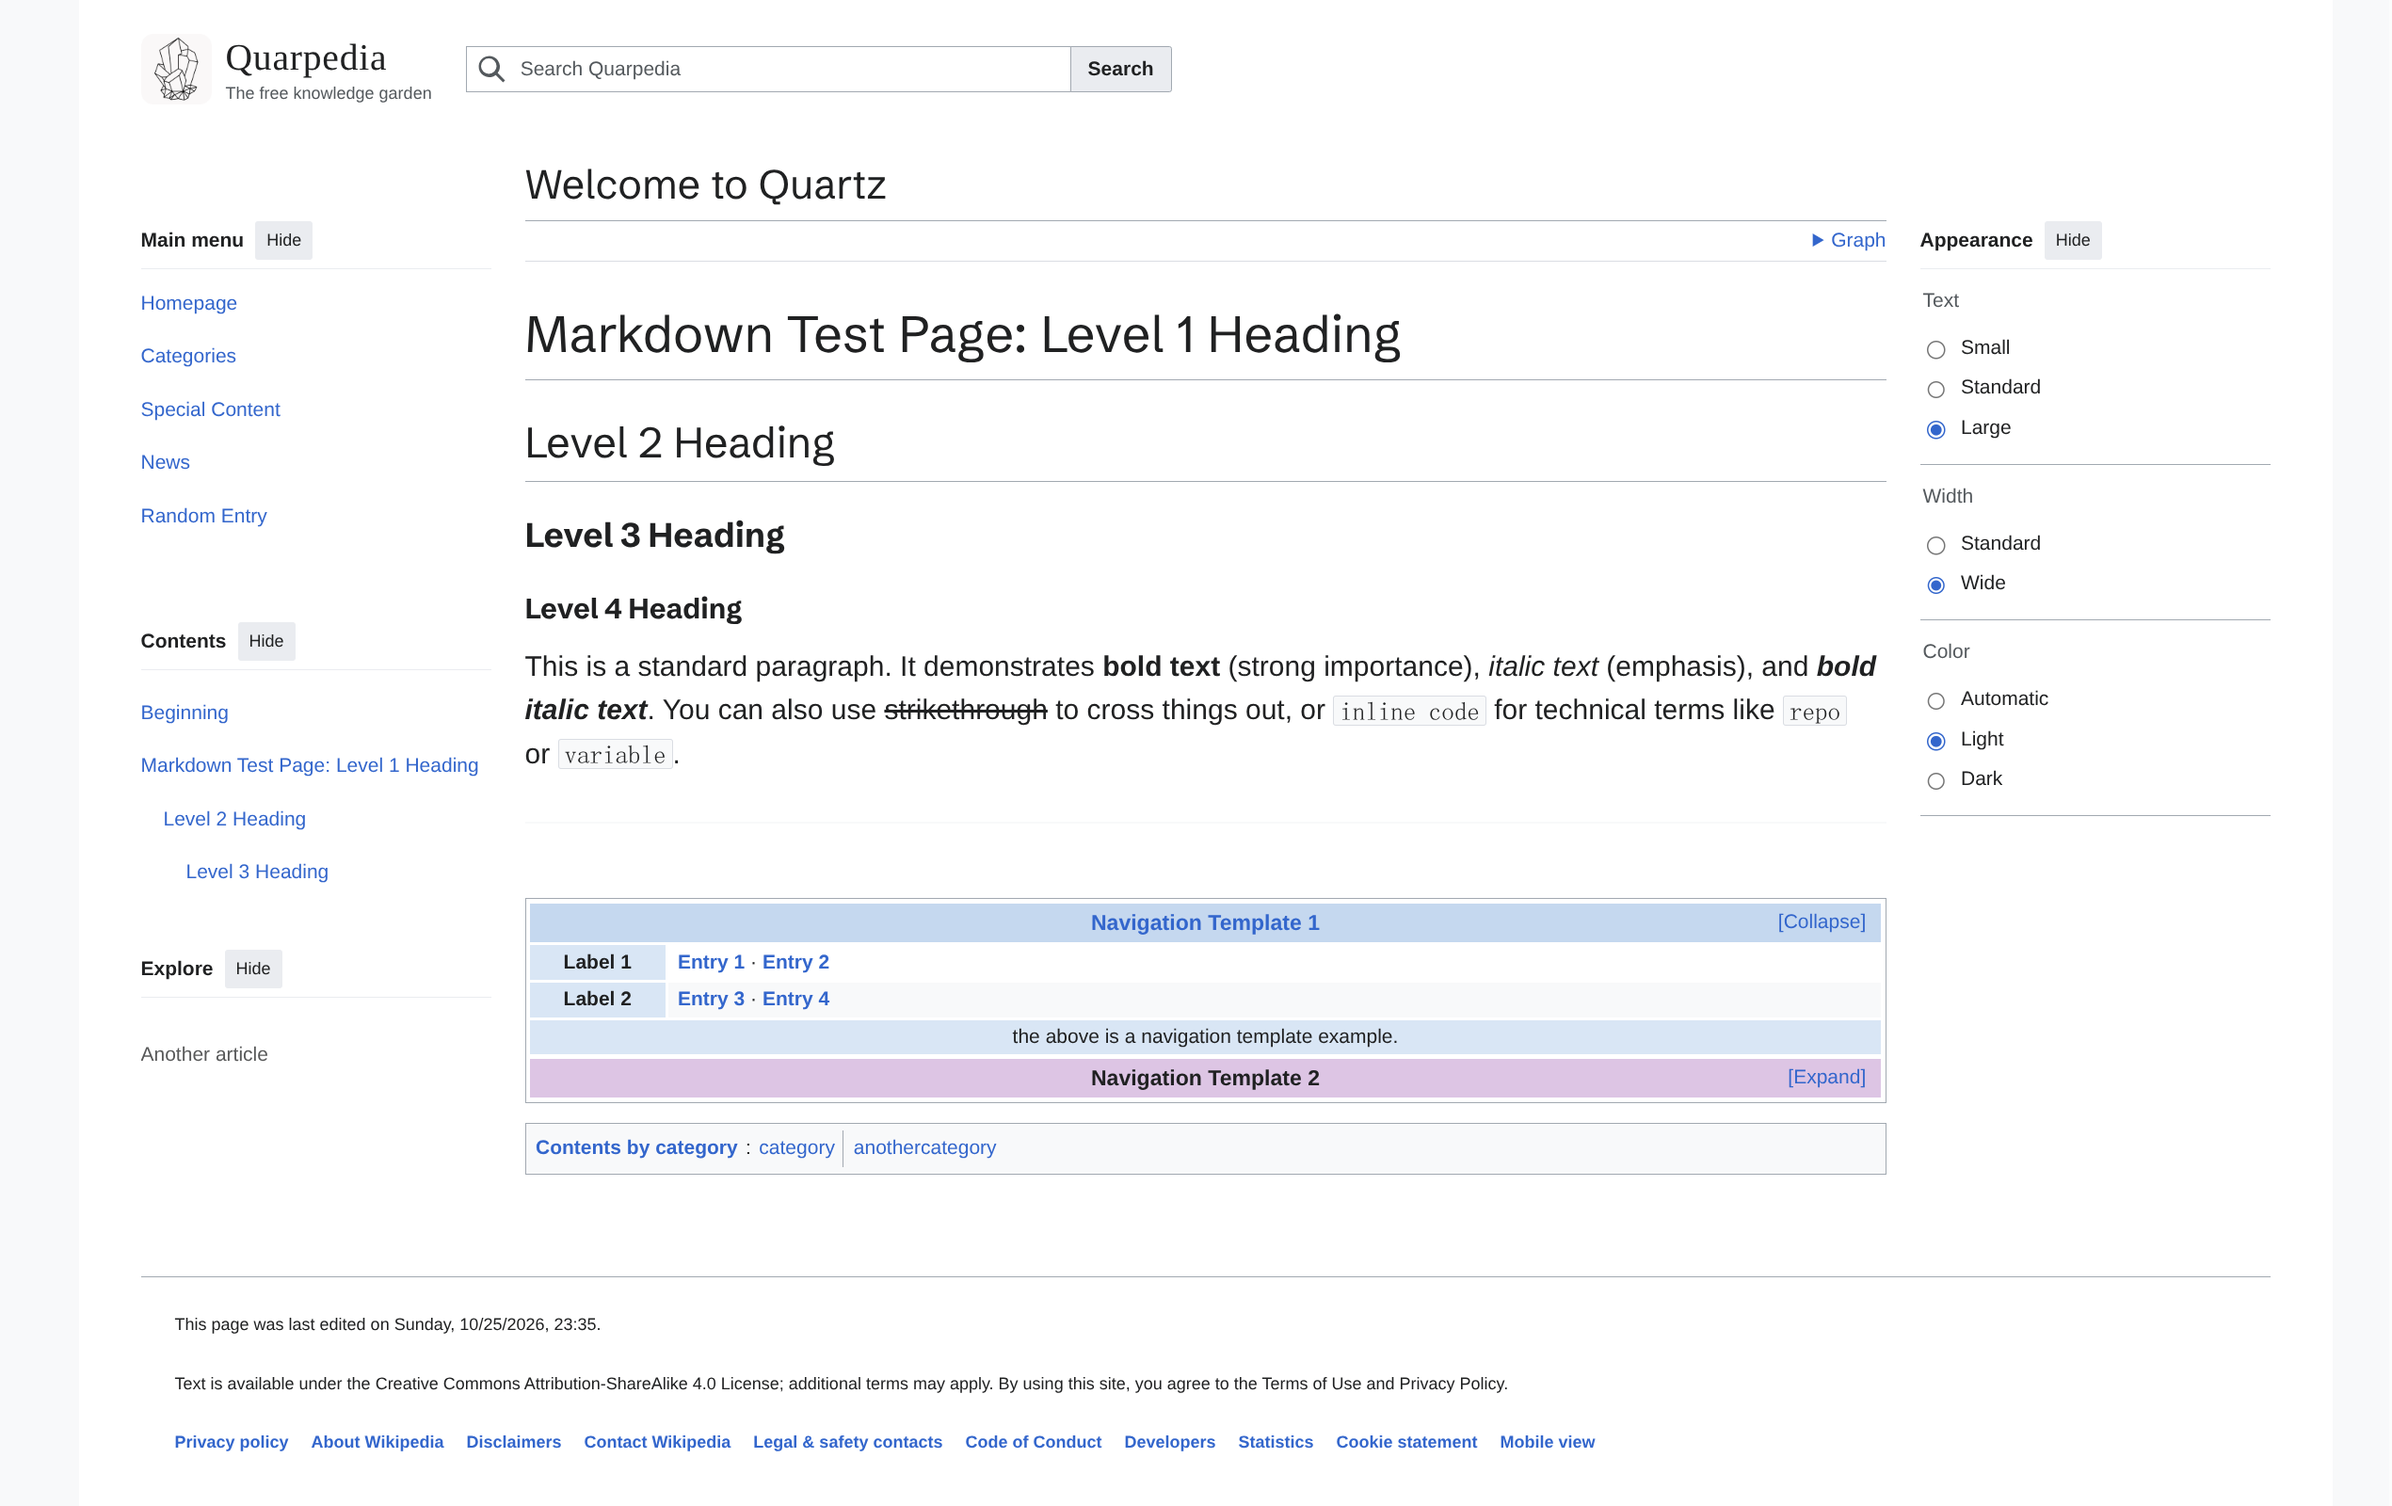
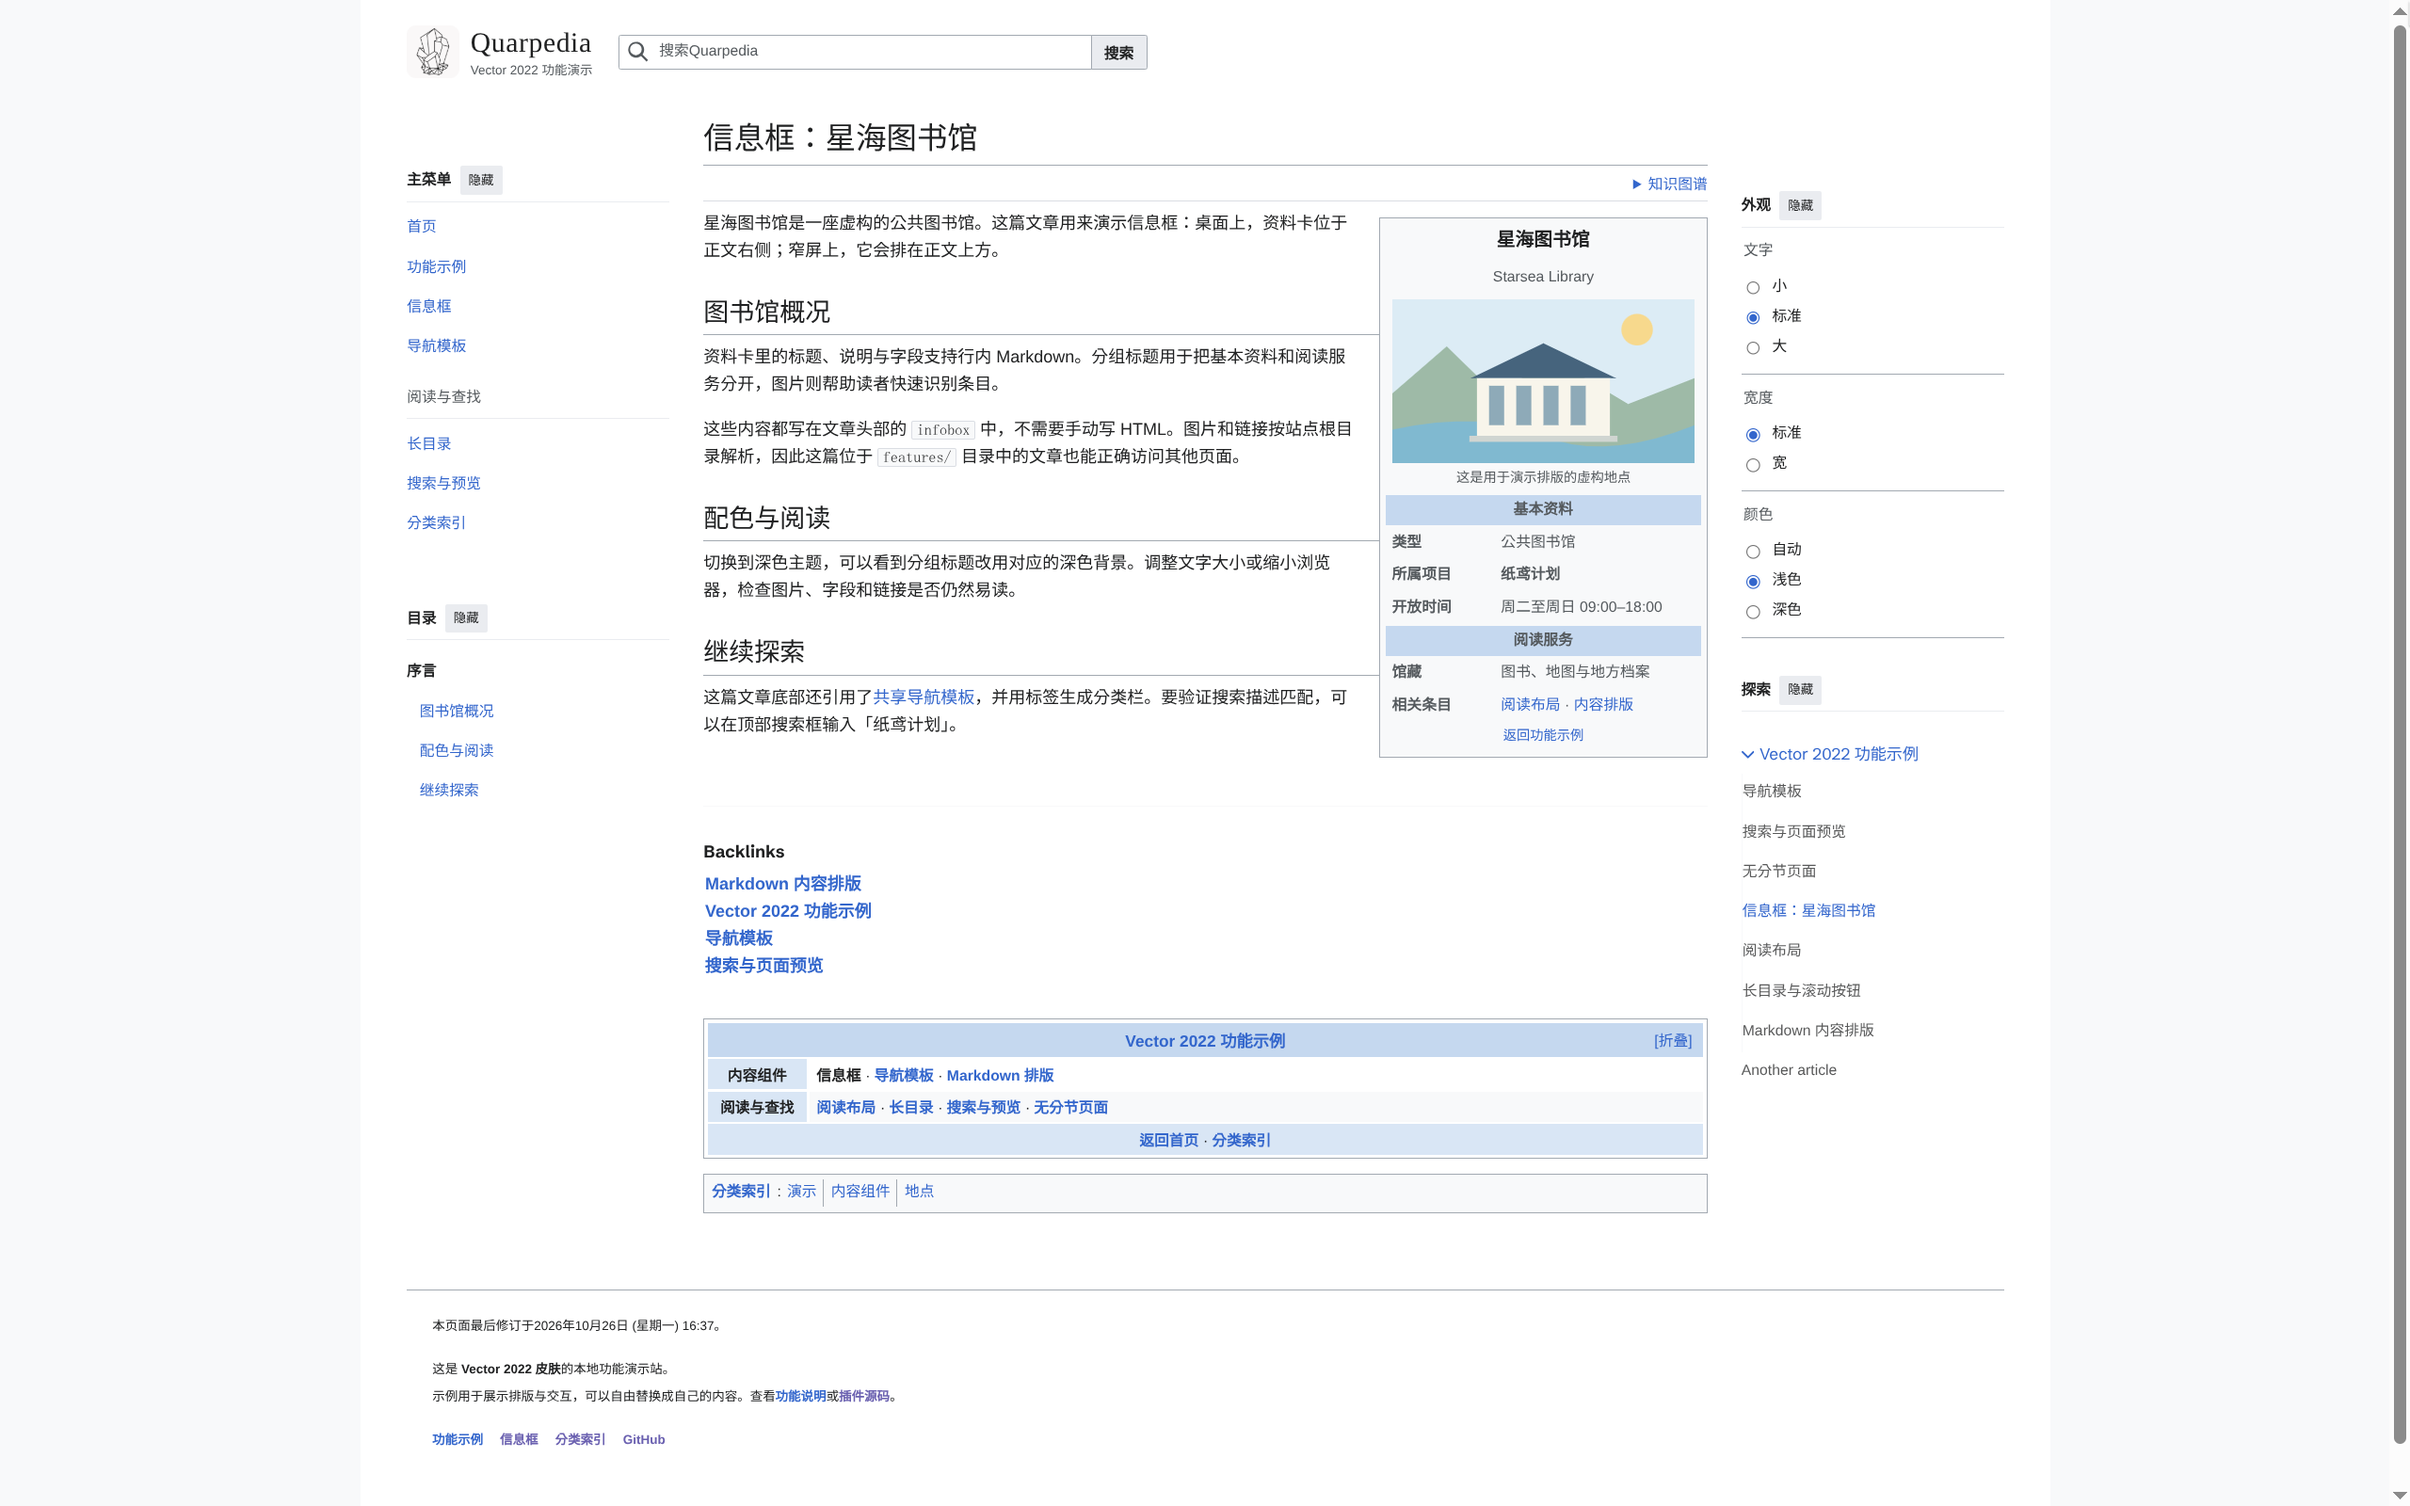
docs: preview

diff --git a/src/components/scripts/vector.inline.ts b/src/components/scripts/vector.inline.ts
@@ -223,7 +223,7 @@ function initVector() {
     const id = host.dataset.qvDock!;
     const panel = document.querySelector<HTMLElement>(`[data-qv-panel="${id}"]`);
     const target = document.querySelector<HTMLElement>(
-      `#quartz-body > .sidebar.${id === "appearance" ? "right" : "left"}`,
+      `#quartz-body > .sidebar.${id === "toc" ? "left" : "right"}`,
     );
     const button = panel?.querySelector<HTMLButtonElement>(".qv-dock-pin");
     if (!panel || !target || !button) return;

diff --git a/ARCHITECTURE.md b/ARCHITECTURE.md
@@ -30,7 +30,7 @@
 
 原生安装通过 `package.json` 声明两个部分：一个注册为 `beforeBody` 的 `VectorPage` 组件，以及默认导出的 `VectorSearchIndex` 发射器。Quartz 加载它们时，把插件条目的 `options` 传给组件。新站点不需要修改入口文件，也不需要导入宿主私有模块。
 
-`VectorPage` 渲染皮肤面板、模板、分类和修订时间。浏览器初始化时，`prepareAutoLayout()` 复用原生搜索、探索和图谱的 DOM 节点，整理侧栏与页脚，并隐藏被皮肤替代的组件。原生组件的事件和资源仍由宿主管理。未知的侧栏组件保留在正文下方，而不是丢弃。该过程不会写入用户的配置或内容文件；禁用插件后重新构建即可恢复。
+`VectorPage` 渲染皮肤面板、模板、分类和修订时间。浏览器初始化时，`prepareAutoLayout()` 复用原生搜索、探索和图谱的 DOM 节点，整理侧栏与页脚，并隐藏被皮肤替代的组件。原生组件的事件和资源仍由宿主管理。主菜单和目录固定在左侧，外观和探索固定在右侧，外观排在探索上方。未知的侧栏组件保留在正文下方，而不是丢弃。该过程不会写入用户的配置或内容文件；禁用插件后重新构建即可恢复。
 
 未安装的可选原生组件不会自动安装或启用，对应入口隐藏。自动接入面向标准三栏 DOM；自定义 frame 可使用独立组件自行安排。所有宿主相关的路径只出现在安装测试的 `QUARTZ_HOST` 参数中，运行时代码不依赖特定站点。
 

diff --git a/README.md b/README.md
@@ -66,7 +66,7 @@ plugins:
 
 ## 调整菜单和阅读外观
 
-主菜单、目录、探索都可以「移至侧栏」，也可以点「隐藏」放回按钮里。左侧从上到下是主菜单、目录、探索。外观面板固定在右侧，隐藏后通过右上角的眼镜按钮打开。
+主菜单、目录、探索都可以「移至侧栏」，也可以点「隐藏」放回按钮里。左侧从上到下是主菜单、目录；探索固定到右侧，排在外观面板下方。外观面板隐藏后通过右上角的眼镜按钮打开。
 
 桌面端的「标准」宽度会保留两侧空间，所以隐藏菜单不会让正文突然左右移动；「宽」会把空侧栏的位置交给正文。页面窄于 1120 px 时，四个菜单都改用按钮打开，并取消侧栏留白。没有分节的文章不显示目录；目录入口滚出屏幕后，左上角会出现悬浮目录按钮。
 

diff --git a/CHANGELOG.md b/CHANGELOG.md
@@ -21,6 +21,8 @@ and this project adheres to [Semantic Versioning](https://semver.org/spec/v2.0.0
 
 ### Changed
 
+- 探索菜单固定时放到右侧栏，位于外观面板下方。
+
 - 「标准／宽」控制页面是否铺满浏览器；宽版会释放没有固定菜单的侧栏空间。
 - 统一下拉菜单阴影，完善搜索焦点反馈、候选键盘选择和 Escape 关闭菜单后的焦点恢复。
 - 页头组件按界面语言复用，Infobox Markdown 使用有界缓存。

diff --git a/.changeset/vector-explorer-right.md b/.changeset/vector-explorer-right.md
@@ -1,0 +1,5 @@
+---
+"quartz-skin-vector": patch
+---
+
+Dock the Explore menu in the right sidebar below Appearance, preserving pin preferences and responsive behavior.
